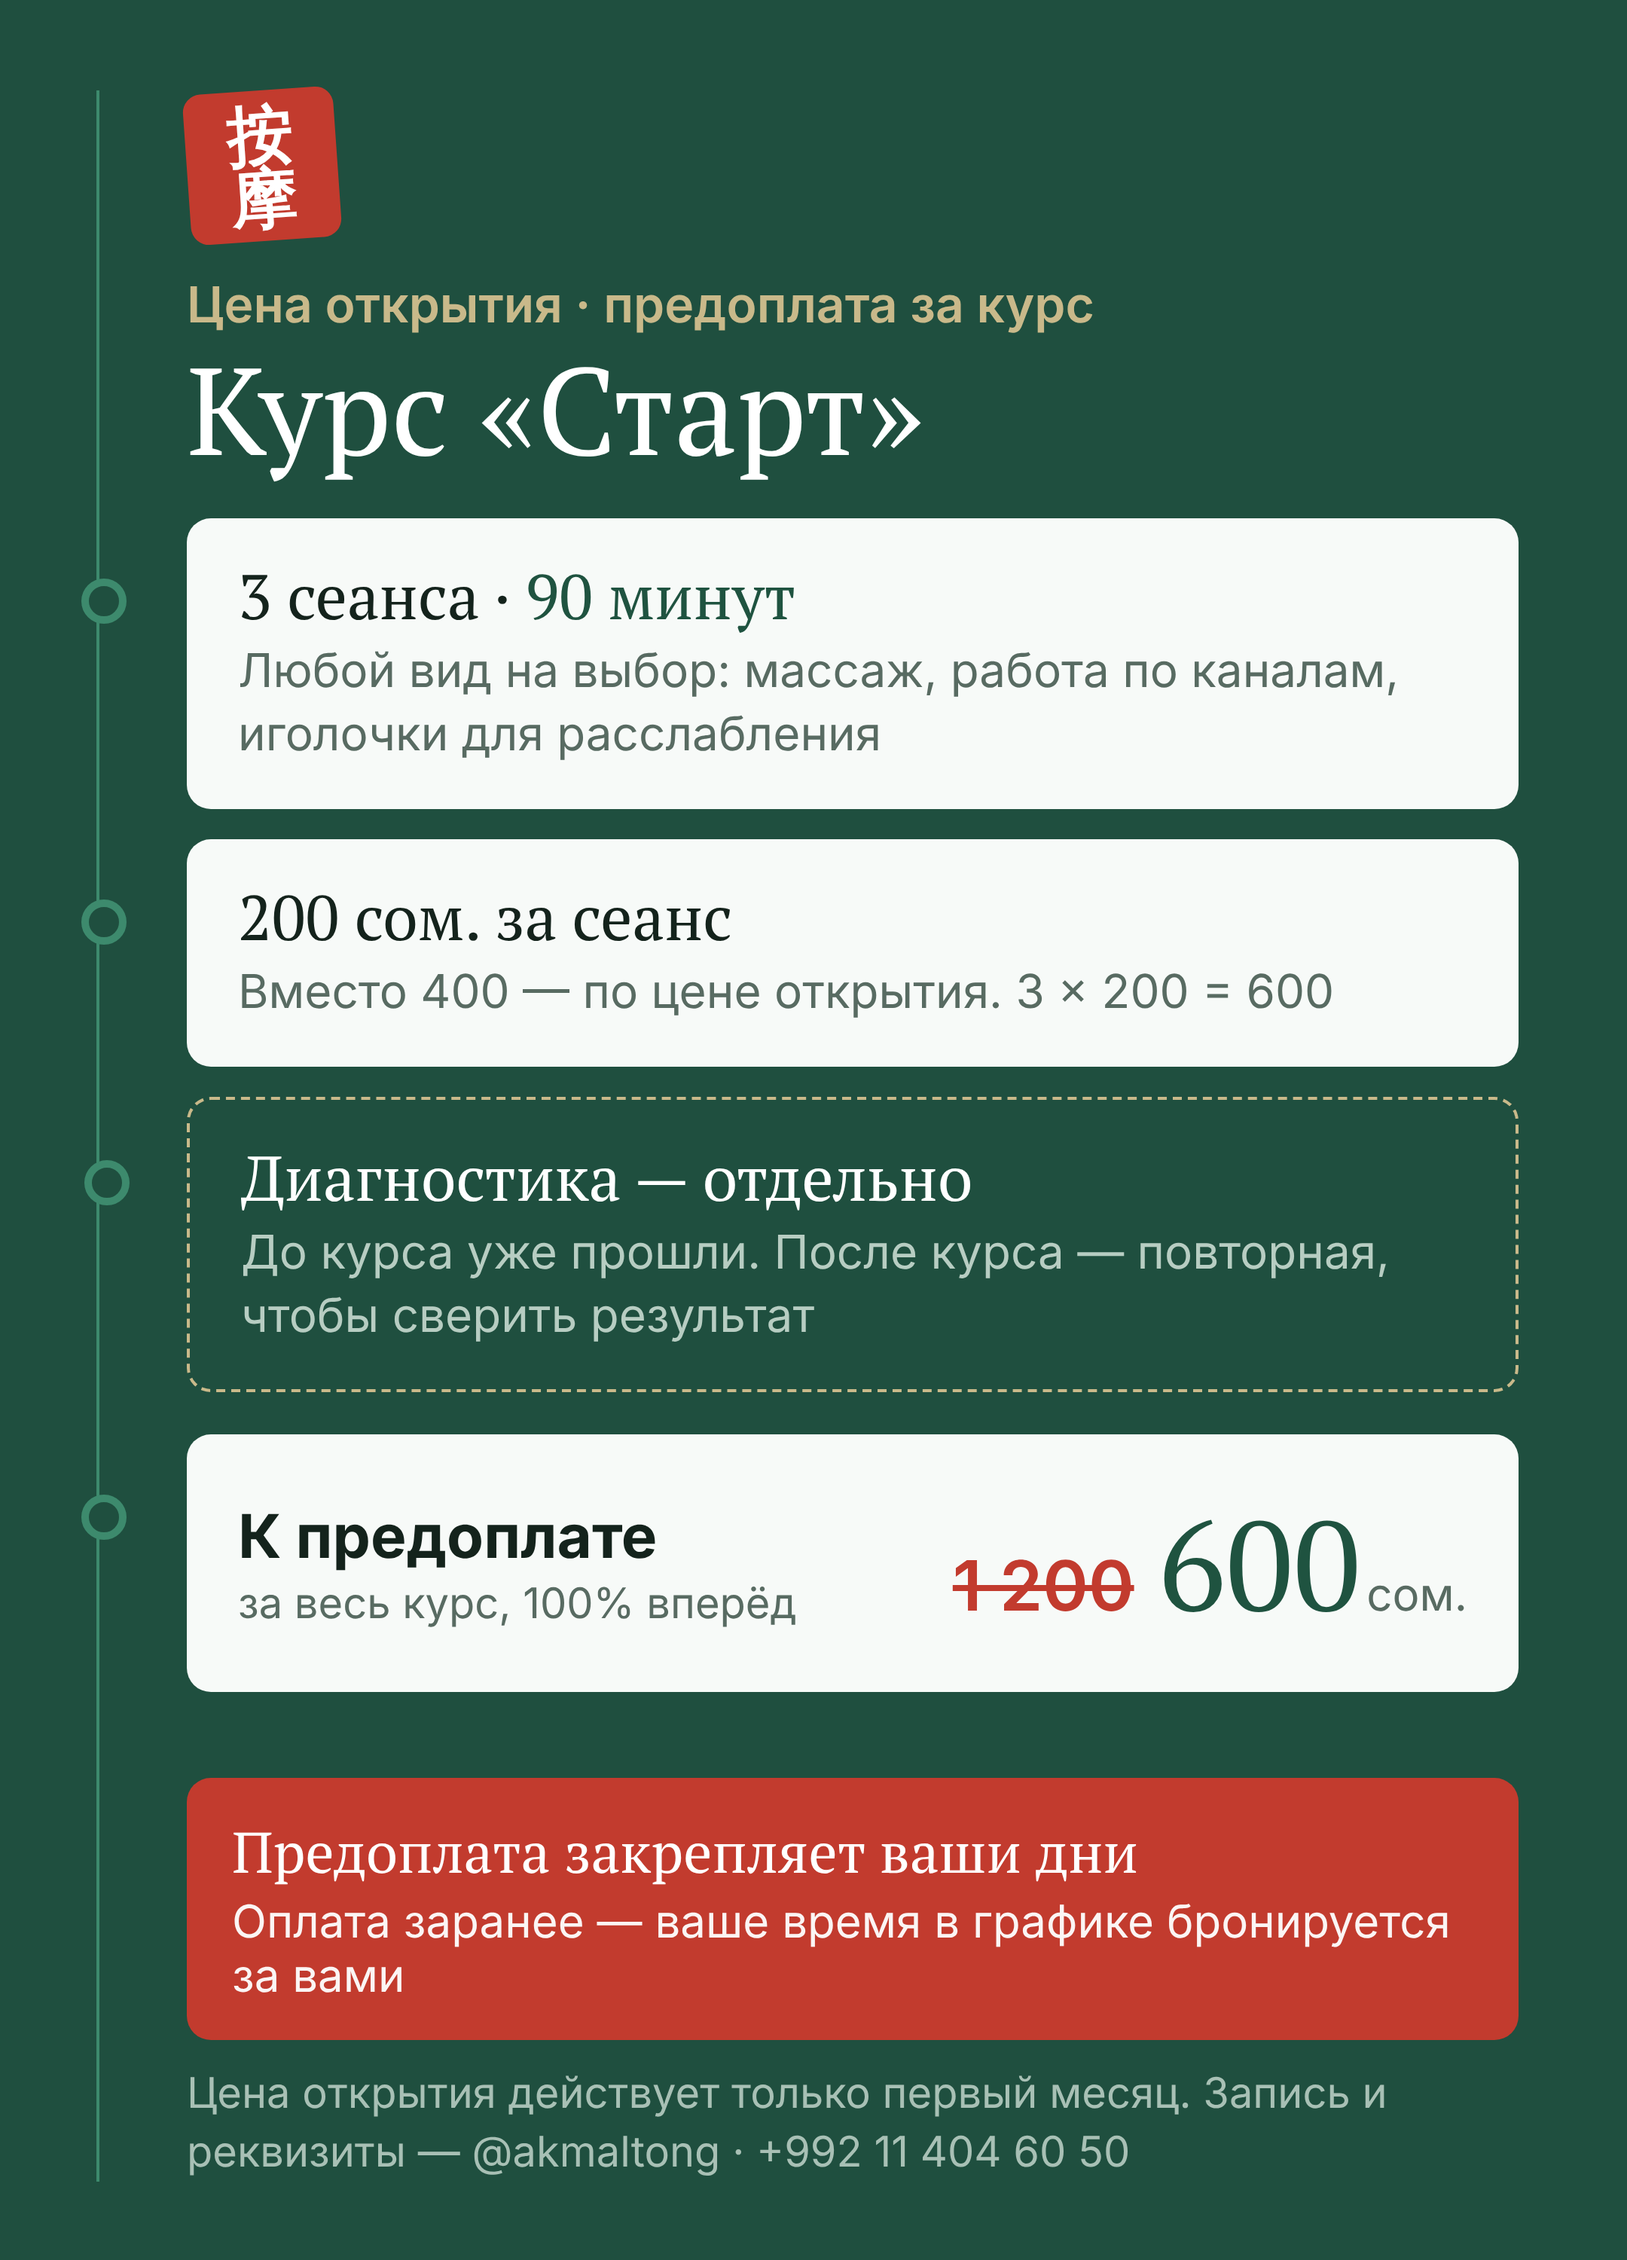
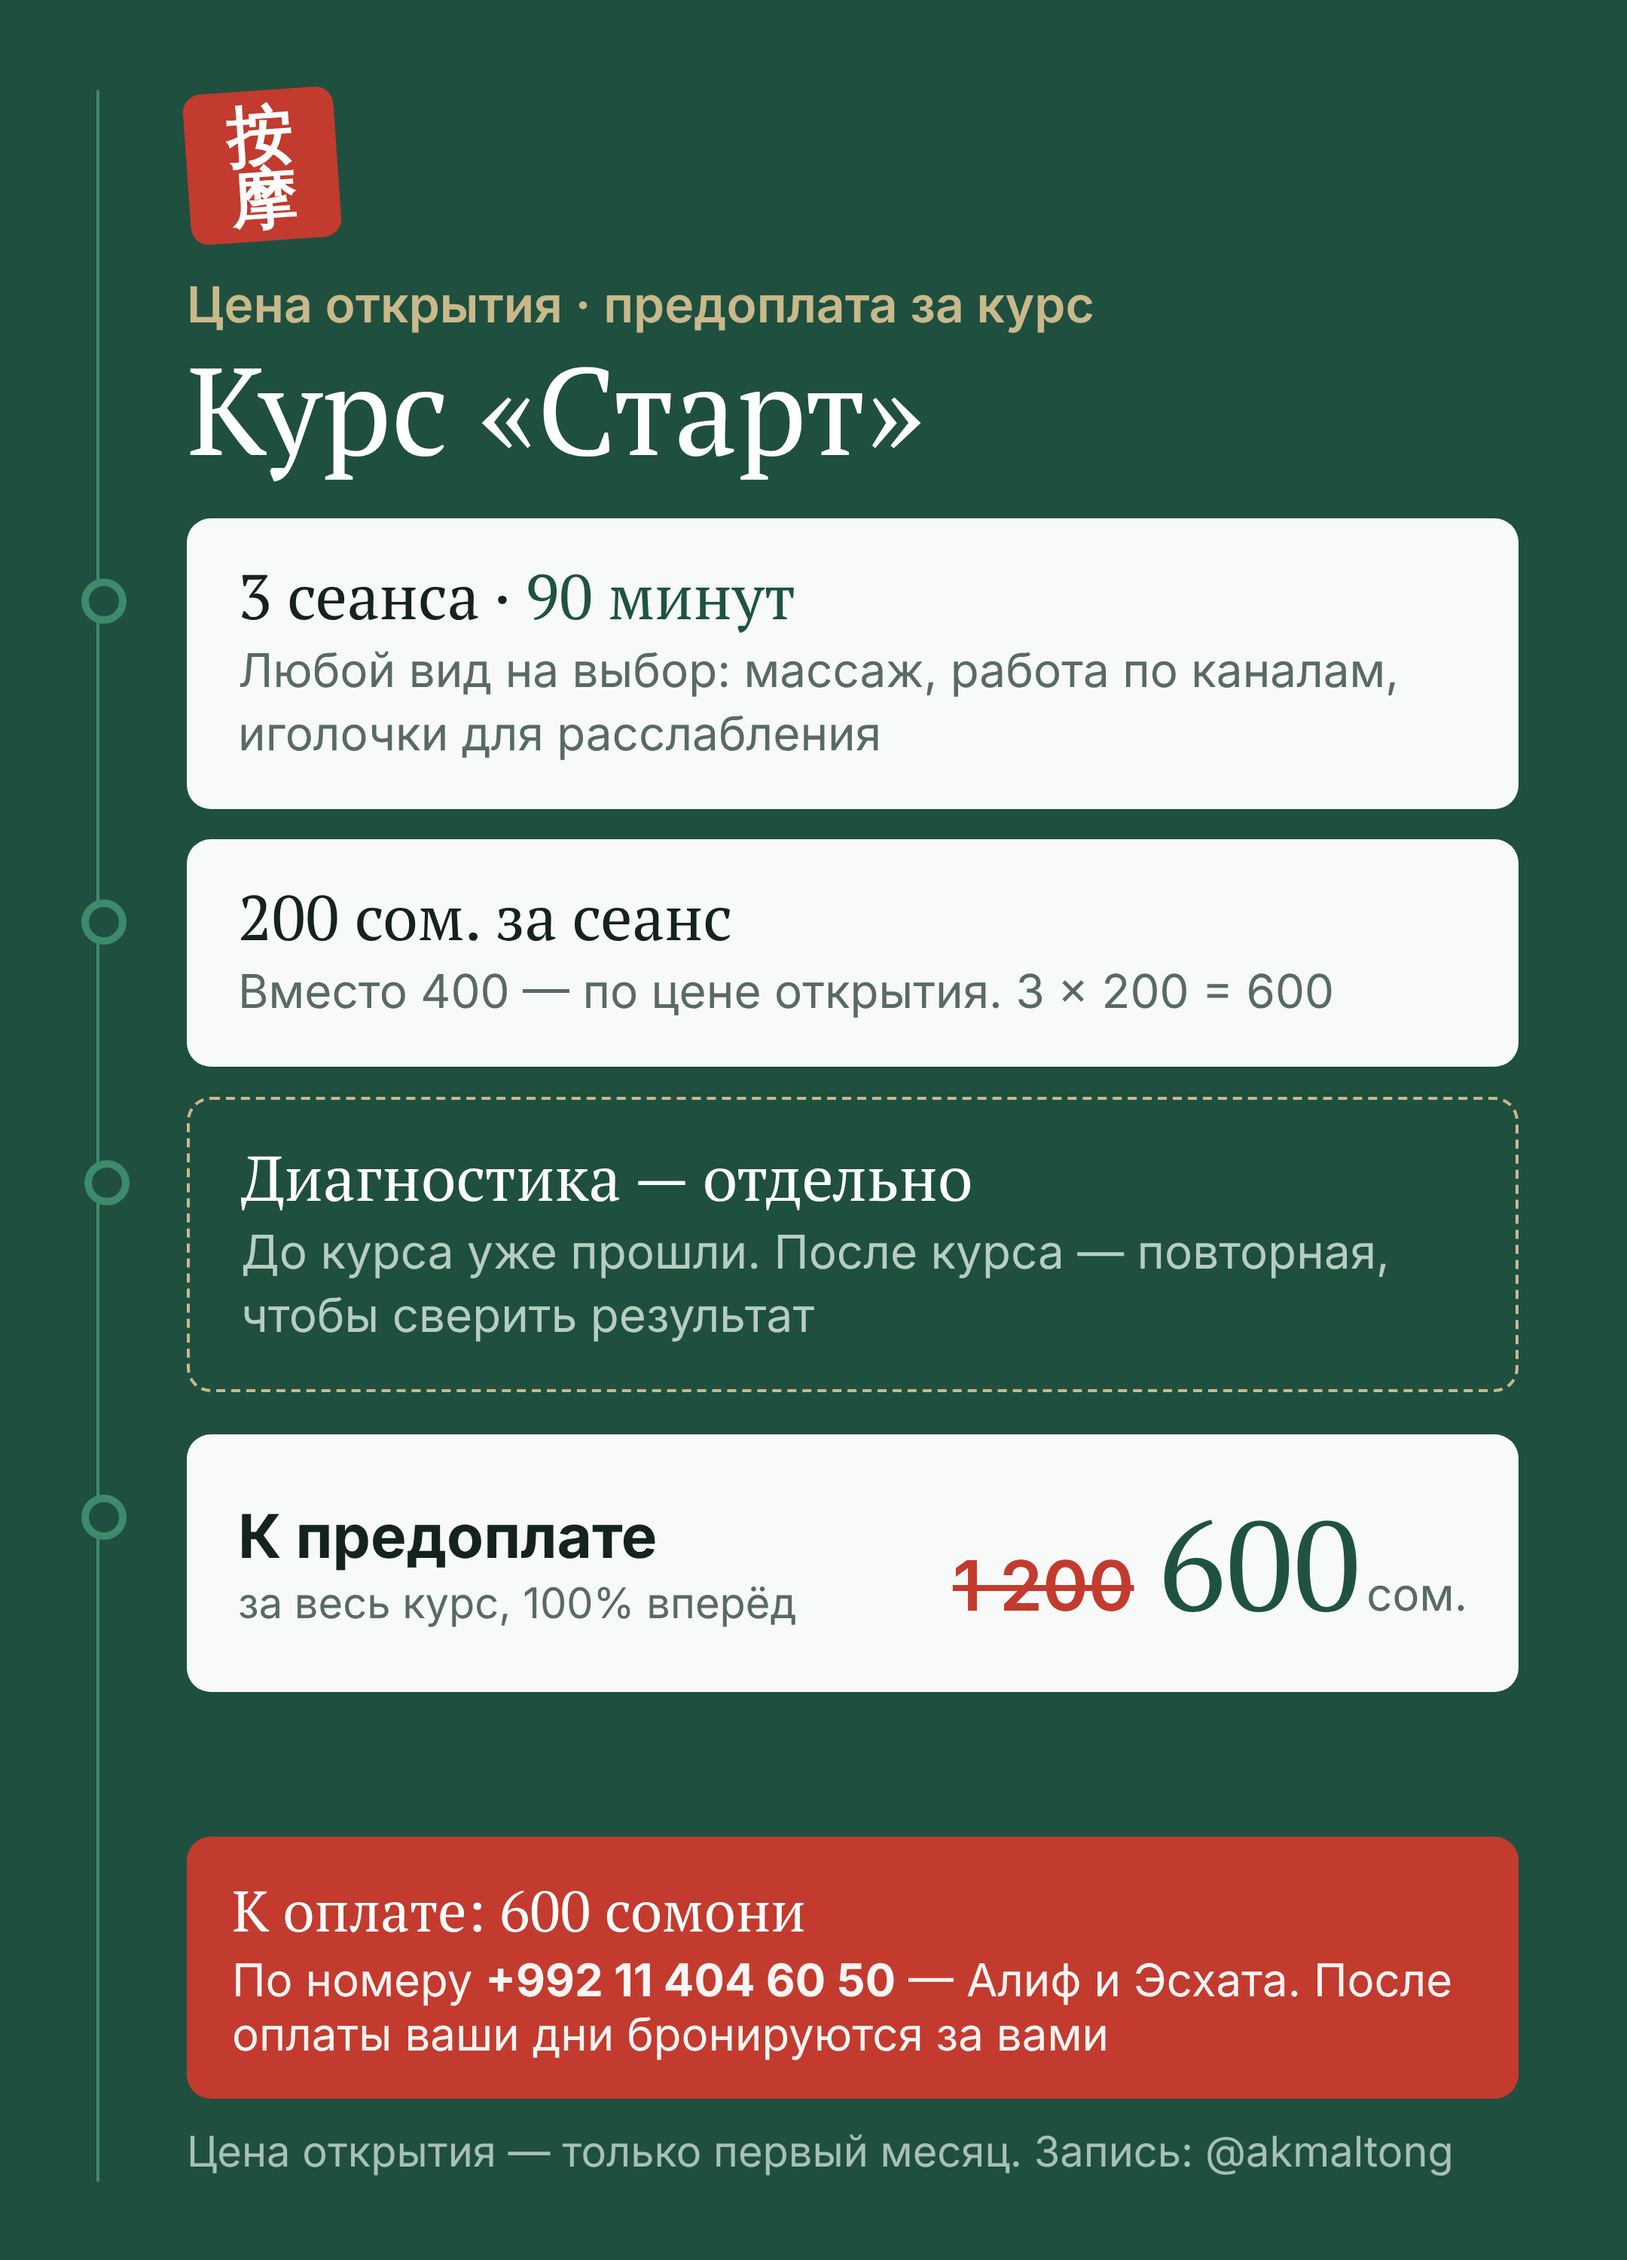
Карточка «Старт»: добавлены реквизиты оплаты (Алиф/Эсхата по номеру)
Claude-Session: https://claude.ai/code/session_019j6PjSd3vpmfH9hgSiT4hs

Changed region(s): [[0.0931, 0.775, 0.9306, 0.961]]

diff --git a/start-prepay.html b/start-prepay.html
@@ -40,8 +40,8 @@ h3{font-family:'PT Serif',serif;font-weight:700;line-height:1.1}
 .cur{font-size:30px;color:var(--muted);font-weight:400;margin-left:4px;font-family:Inter,sans-serif}
 .spacer{flex:1}
 .pay{margin-top:18px;background:var(--seal);color:#fff;border-radius:16px;padding:24px 30px}
-.pay b{font-family:'PT Serif',serif;font-size:38px;display:block}
+.pay>b{font-family:'PT Serif',serif;font-size:38px;display:block;margin-bottom:4px}
 .pay span{font-size:30px;opacity:.95;display:block;margin-top:4px}
 .note{color:var(--lite);font-size:28px;line-height:1.4;margin-top:16px;opacity:.9}
 </style></head><body><div class="sheet">
-<div class="slide"><div class="pad"><div class="seal">按<br>摩</div><div class="kick">Цена открытия · предоплата за курс</div><h1>Курс «Старт»</h1><div class="items"><div class="row card"><h3>3 сеанса · <span class="mins">90 минут</span></h3><p>Любой вид на выбор: массаж, работа по каналам, иголочки для расслабления</p></div><div class="row card"><h3>200 сом. за сеанс</h3><p>Вместо 400 — по цене открытия. 3 × 200 = 600</p></div><div class="row card gift"><h3>Диагностика — отдельно</h3><p>До курса уже прошли. После курса — повторная, чтобы сверить результат</p></div><div class="row price"><span class="what">К предоплате<small>за весь курс, 100% вперёд</small></span><span class="nums"><span class="old">1&nbsp;200</span><span class="now">600<span class="cur">сом.</span></span></span></div></div><div class="spacer"></div><div class="pay"><b>Предоплата закрепляет ваши дни</b><span>Оплата заранее — ваше время в графике бронируется за вами</span></div><p class="note">Цена открытия действует только первый месяц. Запись и реквизиты — @akmaltong · +992 11 404 60 50</p></div></div></div></body></html>
+<div class="slide"><div class="pad"><div class="seal">按<br>摩</div><div class="kick">Цена открытия · предоплата за курс</div><h1>Курс «Старт»</h1><div class="items"><div class="row card"><h3>3 сеанса · <span class="mins">90 минут</span></h3><p>Любой вид на выбор: массаж, работа по каналам, иголочки для расслабления</p></div><div class="row card"><h3>200 сом. за сеанс</h3><p>Вместо 400 — по цене открытия. 3 × 200 = 600</p></div><div class="row card gift"><h3>Диагностика — отдельно</h3><p>До курса уже прошли. После курса — повторная, чтобы сверить результат</p></div><div class="row price"><span class="what">К предоплате<small>за весь курс, 100% вперёд</small></span><span class="nums"><span class="old">1&nbsp;200</span><span class="now">600<span class="cur">сом.</span></span></span></div></div><div class="spacer"></div><div class="pay"><b>К оплате: 600 сомони</b><span>По номеру <b>+992 11 404 60 50</b> — Алиф и Эсхата. После оплаты ваши дни бронируются за вами</span></div><p class="note">Цена открытия — только первый месяц. Запись: @akmaltong</p></div></div></div></body></html>
